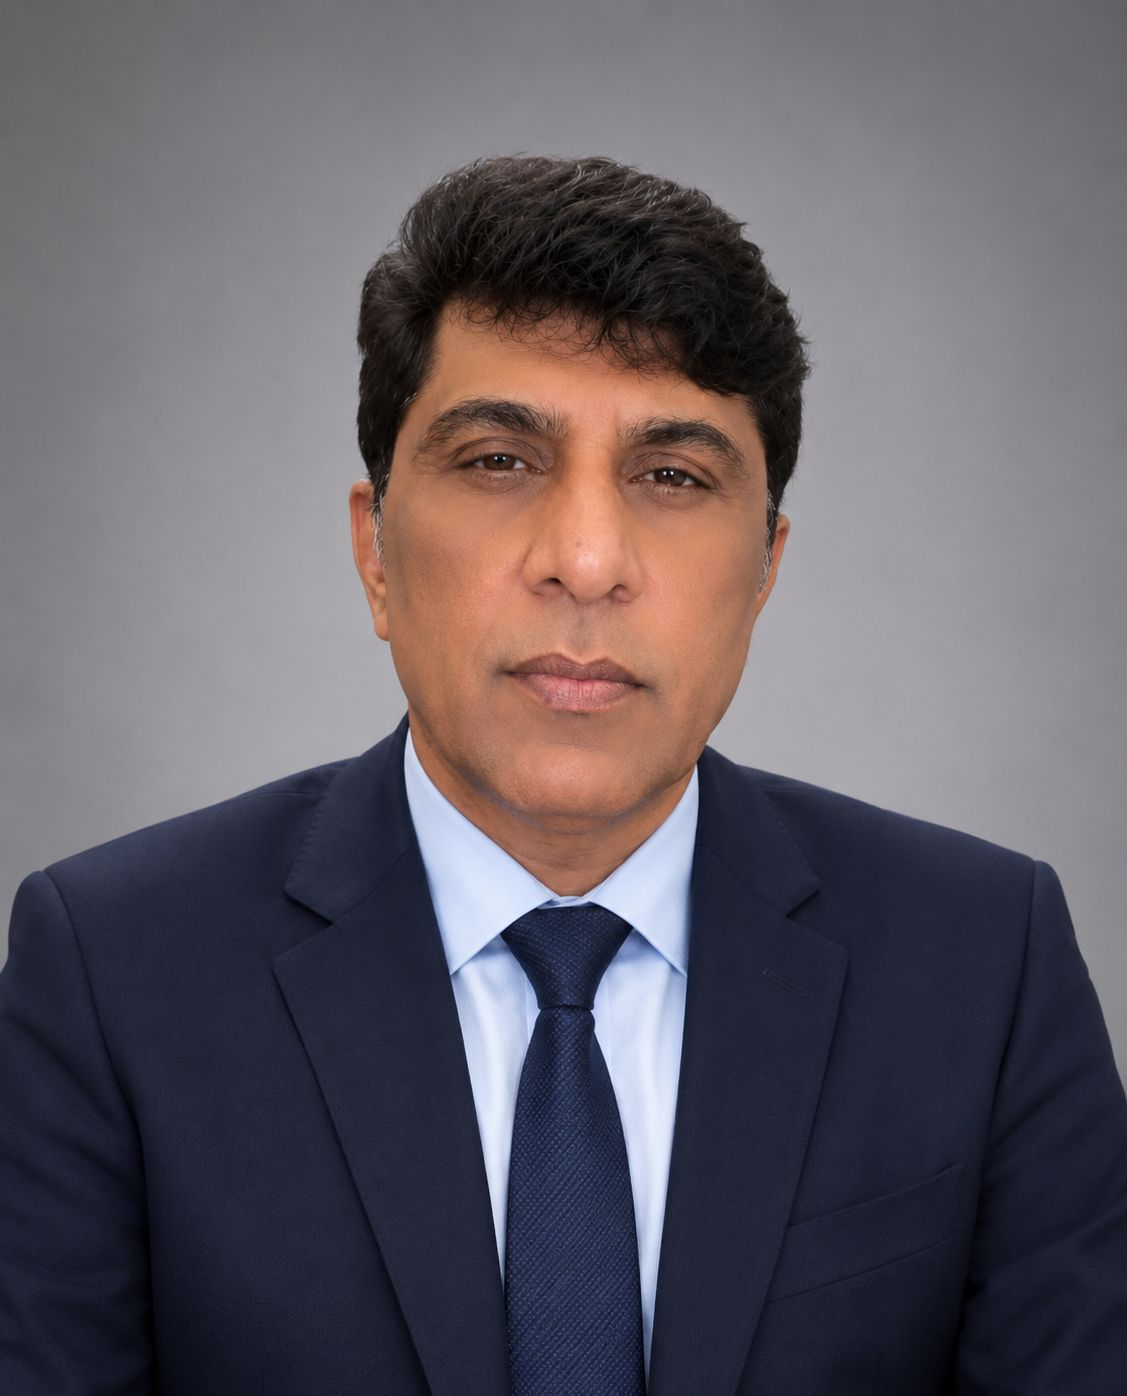
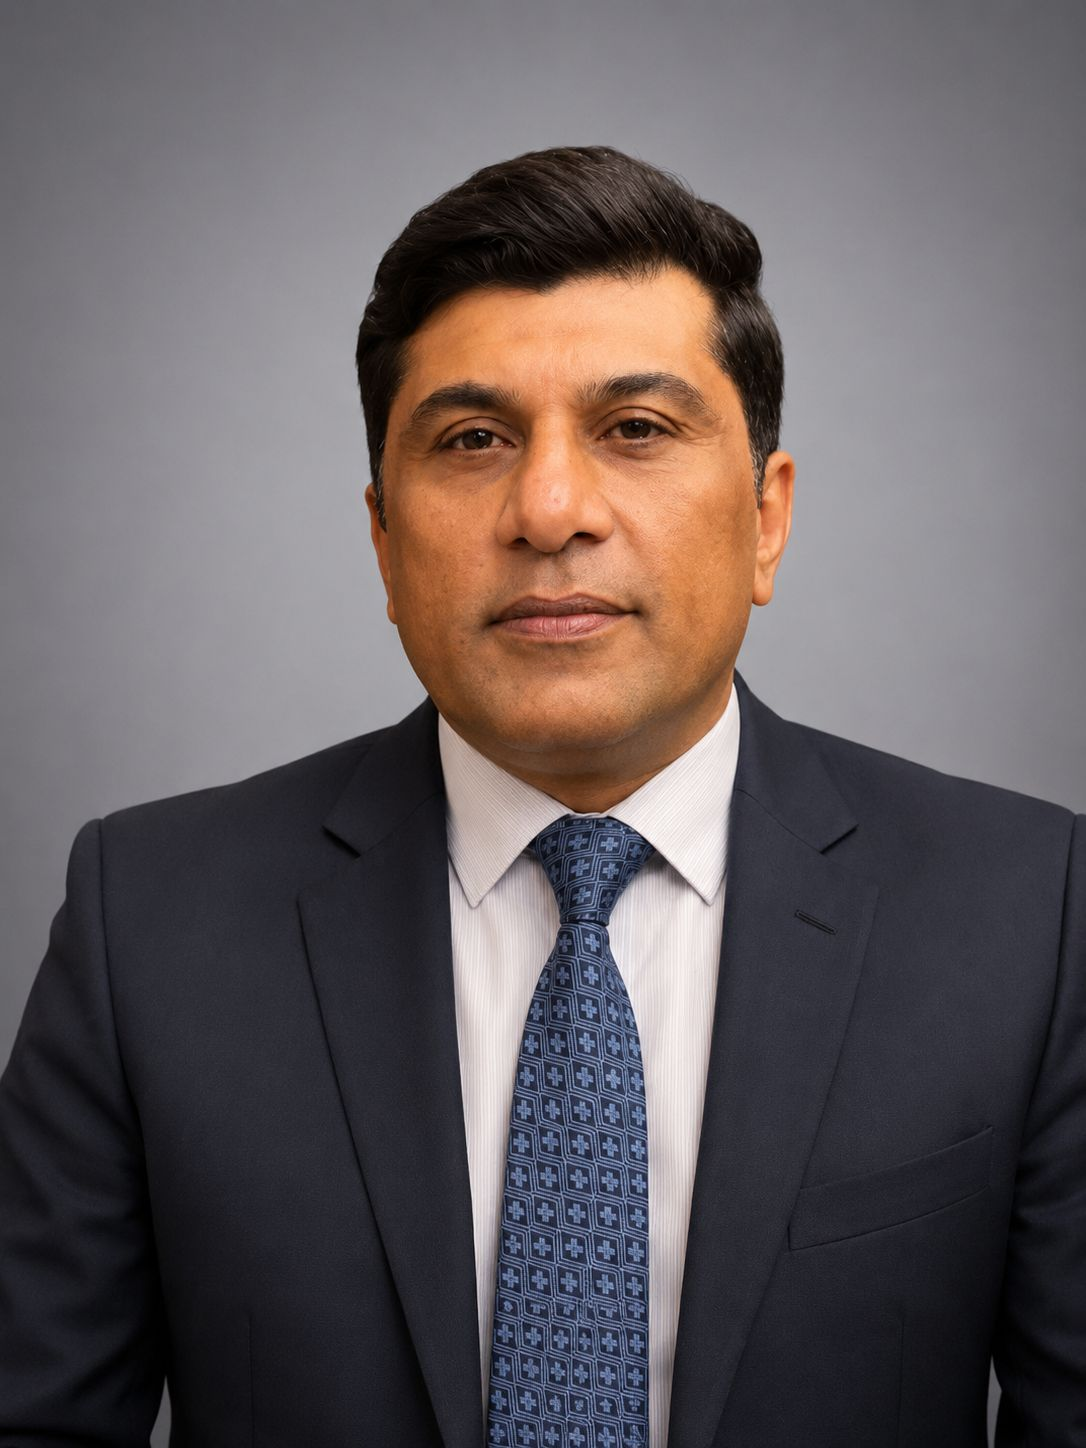
everything finalised

diff --git a/app/about/page.tsx b/app/about/page.tsx
@@ -5,9 +5,8 @@ import { SectionHeading } from "@/components/ui/SectionHeading";
 import { Reveal } from "@/components/ui/Reveal";
 import { Icon } from "@/components/ui/Icon";
 import { Photo } from "@/components/ui/Photo";
-import { StatCard } from "@/components/cards";
 import { CTASection } from "@/components/CTASection";
-import { boardOfDirectors, coreValues, milestones, stats } from "@/lib/company";
+import { boardOfDirectors, coreValues, milestones } from "@/lib/company";
 import { site } from "@/lib/site";
 
 export const metadata: Metadata = {
@@ -94,11 +93,6 @@ export default function AboutPage() {
             <span className="text-gold-400">·</span>
             <span>Construction</span>
           </div>
-          <div className="mx-auto mt-12 grid max-w-4xl grid-cols-1 gap-10 border-t border-navy-700/60 pt-12 sm:grid-cols-3">
-            {stats.map((s) => (
-              <StatCard key={s.label} value={s.value} label={s.label} suffix={s.suffix} />
-            ))}
-          </div>
         </div>
       </section>
 
@@ -168,36 +162,46 @@ export default function AboutPage() {
             <Quote className="h-12 w-12 text-gold-400" />
             <blockquote className="mt-6 space-y-4 text-lg leading-relaxed text-navy-800">
               <p>
-                &ldquo;Since 2013, Wield Developers (Pvt.) Ltd. has been built on a
-                foundation of trust, excellence and innovation. Over the years, we
-                have successfully delivered a diverse range of projects in civil
-                infrastructure, renewable energy, power systems, transformer
-                manufacturing, electrical testing services, IT &amp; telecom
-                services, software development and specialised maintenance
-                solutions.
+                &ldquo;Since 2013, Wield Developers (Pvt.) Ltd. has evolved into a
+                diversified engineering and technology enterprise, founded on the
+                principles of integrity, excellence and innovation. Over the years,
+                we have built a strong reputation for delivering complex,
+                high-impact projects across civil infrastructure, renewable energy,
+                integrated power and energy solutions, information technology,
+                telecommunications and software development.
               </p>
               <p>
-                Our expertise has expanded into modern engineering systems,
-                high-rise watch towers, strategic security installations and
-                critical infrastructure projects that support national development.
-                Drawing upon more than four decades of leadership, strategic
-                planning and organisational management experience gained during my
-                career in the Pakistan Air Force, I firmly believe that lasting
-                success is achieved through professionalism, innovation and an
-                unwavering commitment to excellence.
+                Our core capabilities span the full spectrum of engineering and
+                technical services, with a strong focus on integrated power and
+                energy solutions, including generation systems, transformer
+                manufacturing, electrical testing, commissioning and lifecycle
+                maintenance. Beyond this, we deliver advanced engineering systems,
+                strategic security infrastructure, high-rise surveillance
+                installations and other mission-critical projects that support
+                national infrastructure development. Through disciplined execution,
+                modern technology and engineering precision, we ensure solutions
+                that are reliable, scalable and performance-driven.
               </p>
               <p>
-                Supported by a highly skilled team, advanced technologies and
-                strong HSE practices, we deliver engineering solutions with
-                precision, safety and efficiency. As we continue to grow, our focus
-                remains on providing sustainable, future-ready solutions that create
-                value for our clients and contribute positively to the nation&apos;s
-                progress.&rdquo;
+                The strategic direction of the company is guided by over four
+                decades of leadership, organisational management and strategic
+                planning experience gained during my service in the Pakistan Air
+                Force. This legacy of discipline, professionalism and accountability
+                continues to define our corporate culture and operational standards.
+              </p>
+              <p>
+                Supported by a highly skilled workforce, a strong commitment to
+                Health, Safety and Environment (HSE) excellence, and a culture of
+                continuous innovation, Wield Developers delivers sustainable
+                solutions that create long-term value for clients and stakeholders.
+                We remain focused on strengthening national infrastructure,
+                advancing technological capability and fostering enduring
+                partnerships built on trust, performance and shared success.&rdquo;
               </p>
             </blockquote>
             <footer className="mt-6">
               <div className="font-display text-lg font-bold text-navy-900">
-                Air Vice Marshall Ikram Ul Haq Noor, SI(M)(Retd)
+                Air Vice Marshal Ikram-ul-Haq Noor, SI(M) (Retd.)
               </div>
               <div className="text-sm text-slate-500">
                 Managing Director, {site.legalName}

diff --git a/lib/services.ts b/lib/services.ts
@@ -194,6 +194,10 @@ export const services: Service[] = [
       "Renewable energy project management",
     ],
     toolset: ["WAsP", "WindPRO", "LiDAR", "ArcGIS", "QGIS", "STAAD.Pro", "ETABS"],
+    image: {
+      src: "/images/wind/wind-1.jpg",
+      alt: "Wind turbines generating power across a field at sunset",
+    },
   },
 
   // ───────────────── Construction, Design & Engineering Consultancy ─────────────────
@@ -239,6 +243,10 @@ export const services: Service[] = [
       "Structural analysis & durability assessment",
     ],
     toolset: ["SAP2000", "MIDAS Civil", "Bentley OpenBridge Designer"],
+    image: {
+      src: "/images/infrastructure/infra-1.jpg",
+      alt: "Excavator carrying out foundation earthworks for an infrastructure project",
+    },
   },
   {
     slug: "bridge-construction",
@@ -326,6 +334,10 @@ export const services: Service[] = [
       "Transparent reporting",
     ],
     toolset: ["Primavera P6", "Microsoft Project", "BIM 360"],
+    image: {
+      src: "/images/project-management/master-plan-1.jpg",
+      alt: "Project master-plan layout board on a construction site",
+    },
   },
   {
     slug: "quality-assurance-control",
@@ -345,6 +357,10 @@ export const services: Service[] = [
       "QA/QC protocols & standards compliance",
     ],
     toolset: ["Primavera P6", "PlanSwift", "Bluebeam Revu", "CostX"],
+    image: {
+      src: "/images/quality/qa-1.jpg",
+      alt: "Building interior under construction during a quality inspection",
+    },
   },
 
   // ───────────────────────── Road Infrastructure Development ─────────────────────────
@@ -424,6 +440,10 @@ export const services: Service[] = [
       "Cloud-based platforms",
       "System integration & technical support",
     ],
+    image: {
+      src: "/images/software/software-1.jpg",
+      alt: "Source code on a developer's screen",
+    },
   },
 
   // ───────────────── Procurement & Supply Chain Solutions ─────────────────
@@ -448,6 +468,10 @@ export const services: Service[] = [
       "Government & industrial procurement support",
       "Turnkey equipment supply",
     ],
+    image: {
+      src: "/images/procurement/logistics-1.jpg",
+      alt: "Heavy-duty dump truck delivering material to a project site",
+    },
   },
 
   // ───────────────── Health, Safety & Environmental (HSE) Services ─────────────────
@@ -470,6 +494,10 @@ export const services: Service[] = [
       "Emergency preparedness",
       "Environmental compliance programs",
     ],
+    image: {
+      src: "/images/hse/hse-management-1.png",
+      alt: "Site workers in high-visibility safety gear and helmets on a project site",
+    },
   },
   {
     slug: "safety-equipment-ppe",
@@ -532,6 +560,10 @@ export const services: Service[] = [
       "SCBA breathing apparatus",
       "Confined-space & rescue equipment",
     ],
+    image: {
+      src: "/images/hse/fall-harness.jpg",
+      alt: "Full-body fall-protection harness for confined-space and height rescue",
+    },
   },
   {
     slug: "medical-first-aid",
@@ -550,6 +582,10 @@ export const services: Service[] = [
       "Basket stretchers & spine boards",
       "Emergency & medical response equipment",
     ],
+    image: {
+      src: "/images/medical/medical-1.jpg",
+      alt: "First-aid medical kit with stethoscope, thermometer, dressings and medication",
+    },
   },
 ];
 

diff --git a/app/contact/page.tsx b/app/contact/page.tsx
@@ -105,8 +105,10 @@ export default function ContactPage() {
 
             {/* Hours + links */}
             <div className="mt-4 grid gap-4 sm:grid-cols-2">
-              <div className="flex items-start gap-4 rounded-2xl border border-slate-200 bg-white p-6">
-                <Clock className="h-6 w-6 shrink-0 text-gold-500" strokeWidth={1.6} />
+              <div className="flex h-full items-start gap-4 rounded-2xl border border-slate-200 bg-white p-6">
+                <div className="grid h-12 w-12 shrink-0 place-items-center rounded-xl bg-navy-900 text-gold-400">
+                  <Clock className="h-6 w-6" strokeWidth={1.6} />
+                </div>
                 <div>
                   <div className="text-xs font-semibold uppercase tracking-wider text-slate-400">
                     Working Hours
@@ -116,17 +118,24 @@ export default function ContactPage() {
                   </div>
                 </div>
               </div>
-              <div className="flex items-center rounded-2xl border border-slate-200 bg-white p-6">
-                <a
-                  href={site.url}
-                  target="_blank"
-                  rel="noopener noreferrer"
-                  className="flex items-center gap-2 text-sm font-medium text-navy-700 hover:text-gold-600"
-                >
-                  <Globe className="h-4 w-4 text-gold-500" />
-                  www.wielddevelopers.com
-                </a>
-              </div>
+              <a
+                href={site.url}
+                target="_blank"
+                rel="noopener noreferrer"
+                className="group flex h-full items-start gap-4 rounded-2xl border border-slate-200 bg-white p-6 transition-all hover:-translate-y-1 hover:border-gold-300 hover:shadow-lg"
+              >
+                <div className="grid h-12 w-12 shrink-0 place-items-center rounded-xl bg-navy-900 text-gold-400 transition-colors group-hover:bg-gold-500 group-hover:text-navy-950">
+                  <Globe className="h-6 w-6" strokeWidth={1.6} />
+                </div>
+                <div>
+                  <div className="text-xs font-semibold uppercase tracking-wider text-slate-400">
+                    Website
+                  </div>
+                  <div className="mt-1 text-sm font-medium text-navy-900">
+                    www.wielddevelopers.com
+                  </div>
+                </div>
+              </a>
             </div>
           </Reveal>
 

diff --git a/components/Footer.tsx b/components/Footer.tsx
@@ -2,7 +2,7 @@ import Link from "next/link";
 import { Mail, Phone, MapPin, Smartphone } from "lucide-react";
 import { Logo } from "./Logo";
 import { navLinks, site } from "@/lib/site";
-import { services } from "@/lib/services";
+import { divisions } from "@/lib/services";
 
 export function Footer() {
   return (
@@ -50,19 +50,19 @@ export function Footer() {
             </ul>
           </div>
 
-          {/* Services */}
+          {/* Divisions */}
           <div className="lg:col-span-3">
             <h3 className="text-sm font-semibold uppercase tracking-wider text-white">
-              Services
+              Divisions
             </h3>
             <ul className="mt-5 space-y-3 text-sm">
-              {services.slice(0, 7).map((s) => (
-                <li key={s.slug}>
+              {divisions.map((d) => (
+                <li key={d.slug}>
                   <Link
-                    href={`/services/${s.slug}`}
+                    href={`/services#${d.slug}`}
                     className="text-navy-100/70 transition-colors hover:text-gold-300"
                   >
-                    {s.title}
+                    {d.name}
                   </Link>
                 </li>
               ))}

diff --git a/components/Navbar.tsx b/components/Navbar.tsx
@@ -97,10 +97,7 @@ export function Navbar() {
                 </li>
               );
             }
-            // Keep the long label compact in the bar.
-            const label =
-              link.href === "/transformers" ? "Transformers" : link.label;
-            // (compact label for the long nav item)
+            const label = link.label;
             return (
               <li key={link.href}>
                 <Link

diff --git a/app/transformers/page.tsx b/app/transformers/page.tsx
@@ -64,7 +64,7 @@ export default function TransformersPage() {
         eyebrow="Power & Electrical Division"
         title="Transformers & Electrical Services"
         description="Complete, standards-compliant power solutions — from distribution transformer manufacturing and CT & PT production to winding, testing, maintenance and circuit-breaker services."
-        crumbs={[{ label: "Transformers & Electrical" }]}
+        crumbs={[{ label: "Manufacturing Facility" }]}
       />
 
       {/* INTRO */}

diff --git a/lib/site.ts b/lib/site.ts
@@ -27,7 +27,7 @@ export const navLinks = [
   { label: "Services", href: "/services" },
   { label: "Projects", href: "/projects" },
   { label: "EPC Projects", href: "/epc-projects" },
-  { label: "Transformers & Electrical", href: "/transformers" },
+  { label: "Manufacturing Facility", href: "/transformers" },
   { label: "Gallery", href: "/gallery" },
   { label: "Contact", href: "/contact" },
 ] as const;